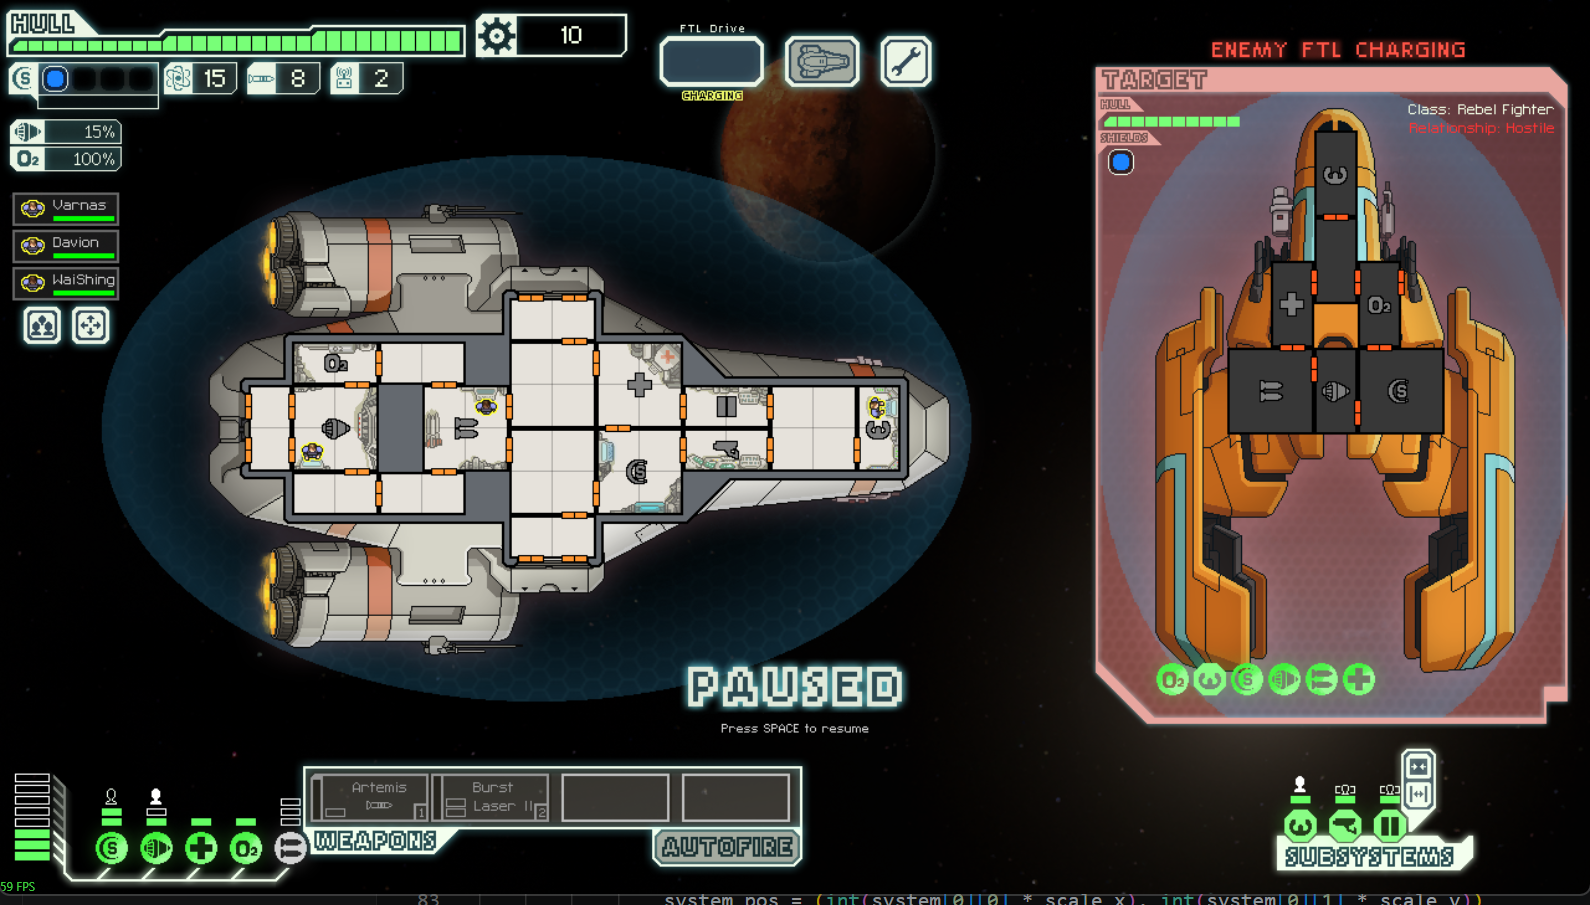
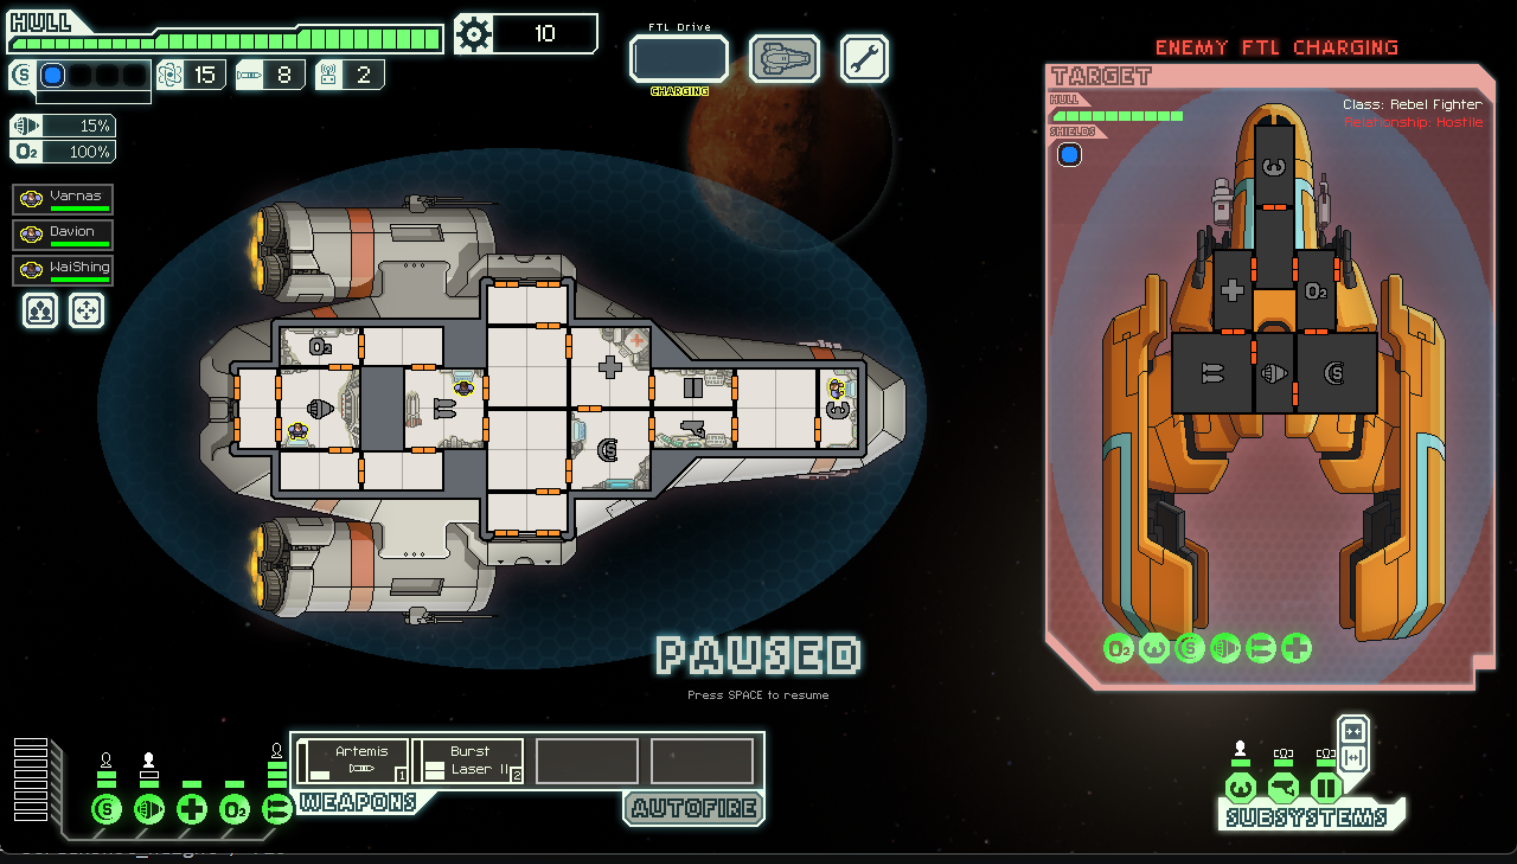
Refactor combat handling and enhance interface integration
- Updated CombatHandler to utilize KeyboardInterface and MouseInterface for input handling.
- Introduced full_scan method in EnemyShip for comprehensive state detection.
- Modified PlayerShip methods to improve room detection and health assessment.
- Added new Interface, KeyboardInterface, and MouseInterface classes for better interaction with the game window.
- Implemented main FTLBot execution flow in FTLBot.py.

diff --git a/src/Controller/CombatHandler.py b/src/Controller/CombatHandler.py
@@ -1,19 +1,22 @@
 
-
 if __name__ == "__main__":
     #change working directory to src
     import os
     os.chdir(os.path.dirname(os.path.abspath(__file__)))
     
+from Interface.KeyboardInterface import KeyboardInterface
+from Interface.MouseInterface import MouseInterface
 from Model.PlayerShip import PlayerShip
 from Model.EnemyShip import EnemyShip
 import time
 import random
 
 class CombatHandler:
-    def __init__(self, player_ship, hostile_ship):
+    def __init__(self, player_ship, hostile_ship, keyboard_interface=None, mouse_interface=None):
         self.player_ship = player_ship
         self.hostile_ship = hostile_ship
+        self.keyboard_interface = keyboard_interface or KeyboardInterface()
+        self.mouse_interface = mouse_interface or MouseInterface()
         self.is_paused = True # Assume combat starts paused
         self.player_ship.full_scan(self.player_ship.screenshot())
         self.hostile_ship.full_scan(self.hostile_ship.screenshot())    
@@ -25,9 +28,8 @@ class CombatHandler:
             self.is_paused = True
             self.last_pause = time.time()
             self.paused_duration = 0
-
-            # TODO: Send pause command to the interface
-        
+            self.keyboard_interface.pause_input()
+            
     # After game is unpaused, cooldown timers need to be adjusted as time does not pass when paused    
     def _set_cooldowns(self):
         for weapon in self.player_ship.weapons:
@@ -40,8 +42,7 @@ class CombatHandler:
             self.paused_duration += time.time() - self.last_pause
             self.last_pause = 0
             self._set_cooldowns()
-
-            #TODO: Send unpause command to the interface
+            self.keyboard_interface.pause_input()
     
 
     def check_player_status(self, screenshot):
@@ -66,19 +67,27 @@ class CombatHandler:
         return available_weapons
 
 
+    def fire_weapon(self, weapon, target):
+        print(f"Firing {weapon.name} at {target}")
+        weapon.fired()
+        self.mouse_interface.click_at_position(weapon.pos[0], weapon.pos[1])
+        self.mouse_interface.click_at_position(target.pos[0], target.pos[1])
+
+
     # Current version will not utilise any tactics, and will instead fire all available weapons
     def main_combat_loop(self):
         while True:
-            self.pause()
+            # Detect keypress of escape key to break loop and end combat
+            if self.keyboard_interface.is_kill_switch_pressed():
+                self.keyboard_interface.kill_switch()
             screenshot = self.player_ship.screenshot()
             weapons_to_fire = self.get_available_weapons()
-            for weapon in weapons_to_fire:
-                target = random.choice(self.hostile_ship.rooms)
-                print(f"Firing {weapon.name} at {target.name}")
-                weapon.fired()
-                # TODO: Send fire command to the interface
-            self.unpause()
-            time.sleep(0.1)
+            if len(weapons_to_fire) > 0:
+                self.pause()
+                for weapon in weapons_to_fire:
+                    self.fire_weapon(weapon, random.choice(self.hostile_ship.rooms))
+                self.unpause()
+            time.sleep(0.5)
 
 
     

diff --git a/src/Interface/MouseInterface.py b/src/Interface/MouseInterface.py
@@ -1,0 +1,60 @@
+import pyautogui
+import platform
+import time
+if platform.system() == "Windows":
+    import ctypes
+    from ctypes import wintypes
+try:
+    from .Interface import Interface
+except ImportError:
+    from Interface import Interface
+
+class MouseInterface(Interface):
+
+    def __init__(self, ftl_window=None):
+        super().__init__(ftl_window)
+        self.refresh_bounds()
+    
+    def refresh_bounds(self):
+        self.screen_width, self.screen_height = self.ftl_window.width, self.ftl_window.height  
+        self.left_bound = self.ftl_window.left
+        self.top_bound = self.ftl_window.top
+        self.right_bound = self.ftl_window.right
+        self.bottom_bound = self.ftl_window.bottom
+
+    def _get_client_origin(self):
+        # Room/system coordinates are in client-area space, so clicks must be translated
+        # from client origin rather than full window origin.
+        if platform.system() != "Windows":
+            return self.left_bound, self.top_bound
+
+        hwnd = getattr(self.ftl_window, "_hWnd", None)
+        try:
+            hwnd = int(hwnd)
+        except (TypeError, ValueError):
+            hwnd = None
+
+        if not hwnd or hwnd <= 0:
+            return self.left_bound, self.top_bound
+
+        user32 = ctypes.windll.user32
+        if not user32.IsWindow(hwnd):
+            return self.left_bound, self.top_bound
+
+        point = wintypes.POINT(0, 0)
+        if not user32.ClientToScreen(hwnd, ctypes.byref(point)):
+            return self.left_bound, self.top_bound
+        return point.x, point.y
+
+
+    def click_at_position(self, x, y):
+        self._activate_ftl_window()
+        self.refresh_bounds()
+        client_left, client_top = self._get_client_origin()
+        click_pos = (x + client_left, y + client_top)
+        if self.left_bound <= click_pos[0] <= self.right_bound and self.top_bound <= click_pos[1] <= self.bottom_bound:
+            pyautogui.moveTo(click_pos)
+            time.sleep(0.1)  # Small delay to ensure the mouse has moved before clicking
+            pyautogui.click(*click_pos)
+        else:
+            raise ValueError(f"Click position ({x}, {y}) is outside the bounds of the FTL window.")

diff --git a/src/Model/PlayerShip.py b/src/Model/PlayerShip.py
@@ -52,7 +52,8 @@ class PlayerShip(Ship):
                     return np.zeros((health_bar_image.height, health_bar_image.width), dtype=np.uint8)
         return mask
 
-    def _point_in_room(self, point, polygon):
+    def _point_in_room(self, point, room):
+        polygon = room.bounds
         x1, y1 = point
         x2, y2, xoffset, yoffset = polygon
 
@@ -64,10 +65,6 @@ class PlayerShip(Ship):
     def detect_rooms(self, screenshot, DEBUG=False):
         rooms = super().detect_rooms(screenshot, DEBUG)
         print("Rooms:", rooms)
-        # Scale system anchors from base 1280x720 using the actual screenshot size.
-        screenshot_width, screenshot_height = screenshot.size
-        scale_x = screenshot_width / 1280
-        scale_y = screenshot_height / 720
         system_names = [
             [(380, 330), "Weapons", (235, 650)],
             [(270, 330), "Engines", (120, 650)],
@@ -80,8 +77,8 @@ class PlayerShip(Ship):
         ]
         for room in rooms:
             for system in system_names:
-                system_pos = (int(system[0][0] * scale_x), int(system[0][1] * scale_y))
-                system_uipos = (int(system[2][0] * scale_x), int(system[2][1] * scale_y)) if len(system) == 3 else None
+                system_pos = (int(system[0][0] * self.scale_x), int(system[0][1] * self.scale_y))
+                system_uipos = (int(system[2][0] * self.scale_x), int(system[2][1] * self.scale_y)) if len(system) == 3 else None
                 if self._point_in_room(system_pos, room):
                     print(f"System {system[1]} is in room {room}")
                     if len(system) == 3:
@@ -107,8 +104,8 @@ class PlayerShip(Ship):
     def detect_weapons(self, screenshot, DEBUG=False):
         # For this version all weapons will be hardcoded
         weapons = [
-            Weapon("Artemis Missile", (300, 650), 2, 11, 1, 5),
-            Weapon("Burst Laser Mk II", (400, 650), 1, 12, 3)
+            Weapon("Artemis Missile", (int(300 * self.scale_x), int(650 * self.scale_y)), 2, 11, 1, 5),
+            Weapon("Burst Laser Mk II", (int(400 * self.scale_x), int(650 * self.scale_y)), 1, 12, 3)
         ]
         self.weapons = weapons
         return weapons

diff --git a/Test/Model/PlayerShip_test.py b/Test/Model/PlayerShip_test.py
@@ -32,7 +32,7 @@ class TestPlayerShip(unittest.TestCase):
         # Replace screenshot with a preset image TestImage1.jpg that has a known health bar state
         test_image = Image.open('Test/Model/TestImage1.jpg')
         
-        health = self.player_ship.detect_health(test_image, DEBUG=True)
+        health = self.player_ship.detect_health(test_image  )
         # Assuming TestImage1.jpg has 25 hit points, we can assert that the detected health is correct
         self.assertEqual(health, 25)
         self.assertEqual(self.player_ship.health, 25)
@@ -86,13 +86,13 @@ class TestPlayerShip(unittest.TestCase):
         rooms = self.player_ship.detect_rooms(test_image)
 
         self.assertEqual(len(rooms), 1)
-        x, y, w, h = rooms[0]
+        x, y, w, h = rooms[0].bounds
         self.assertTrue(x <= 20 and y <= 20)
         self.assertTrue(w >= 155 and h >= 155)
 
     def test_detect_rooms_detects_correct_amount_of_rooms(self):
         test_image = Image.open('Test/Model/TestYellowBar.png')
-        rooms = self.player_ship.detect_rooms(test_image, DEBUG=True)
+        rooms = self.player_ship.detect_rooms(test_image)
         # Assuming TestYellowBar.png has 19 rooms, we can assert that the detected rooms are correct
         self.assertEqual(len(rooms), 19)
 

diff --git a/src/Interface/KeyboardInterface.py b/src/Interface/KeyboardInterface.py
@@ -1,0 +1,43 @@
+#import a library that can mimic keyboard input
+import ctypes
+import pyautogui
+
+try:
+    from .Interface import Interface
+except ImportError:
+    from Interface import Interface
+
+
+class KeyboardInterface(Interface):
+    
+    
+    # Immediately exit the program when called, used for emergency stopping of the bot if something goes wrong.
+    def kill_switch(self):
+        raise SystemExit("Kill switch activated")
+    
+    def is_kill_switch_pressed(self):
+        # On Windows, query asynchronous key state to detect if ESC is held.
+        try:
+            VK_ESCAPE = 0x1B
+            return bool(ctypes.windll.user32.GetAsyncKeyState(VK_ESCAPE) & 0x8000)
+        except Exception:
+            return False
+
+    def press(self, key):
+        self._activate_ftl_window()
+        pyautogui.press(key)
+
+
+
+    def press_key(self, key):
+        self.press(key)
+    
+    def hold_key(self, key, duration):
+        self._activate_ftl_window()
+        pyautogui.keyDown(key)
+        pyautogui.sleep(duration)
+        pyautogui.keyUp(key)
+
+    def pause_input(self):
+        pyautogui.press("space")
+

diff --git a/src/Model/Ship.py b/src/Model/Ship.py
@@ -9,6 +9,14 @@ except ImportError:
     from Masker import Masker
 
 
+class Room():
+    def __init__(self, bounds):
+        self.bounds = bounds
+        x, y, width, height = bounds
+        # Use rounded half-width/height so odd-sized rooms center more accurately.
+        self.pos = (int(round(x + width / 2)), int(round(y + height / 2)))
+        
+
 
 class Ship(Masker): 
 
@@ -107,7 +115,7 @@ class Ship(Masker):
             x += self.ROOM_REGION[0]
             y += self.ROOM_REGION[1]
             if w > 20 and h > 20:  # These thresholds may need to be adjusted based on the actual sizes of rooms in the game
-                rooms.append((x, y, w, h))
+                rooms.append(Room((x, y, w, h)))
                 if DEBUG:
                     cv2.rectangle(debug_image, (x, y), (x + w, y + h), (0, 255, 0), 2)
         if DEBUG:

diff --git a/src/Interface/Interface.py b/src/Interface/Interface.py
@@ -1,0 +1,19 @@
+import pyautogui
+import pygetwindow as gw
+
+class Interface:
+    def __init__(self, ftl_window=None):
+        if ftl_window is None:
+            self.ftl_window = gw.getWindowsWithTitle("FTL: Faster Than Light")[0]  # Get the FTL window
+        else:
+            self.ftl_window = ftl_window
+               
+               
+    def _activate_ftl_window(self):
+        if self.ftl_window is None:
+            return
+
+        if hasattr(self.ftl_window, "isMinimized") and self.ftl_window.isMinimized:
+            self.ftl_window.restore()
+
+        self.ftl_window.activate()

diff --git a/Test/Model/EnemyShip_test.py b/Test/Model/EnemyShip_test.py
@@ -36,7 +36,7 @@ class TestEnemyShip(unittest.TestCase):
 
     def test_detect_shield(self):
         test_image = Image.open('Test/Model/TestImage2.png')
-        shield = self.enemy_ship.detect_shield(test_image, DEBUG=True)
+        shield = self.enemy_ship.detect_shield(test_image)
         # Assuming TestImage2.png has 3 shield points for the enemy ship, we can assert that the detected shield is correct
         self.assertEqual(shield, 3)
         self.assertEqual(self.enemy_ship.shield, 3)

diff --git a/src/Model/EnemyShip.py b/src/Model/EnemyShip.py
@@ -23,6 +23,11 @@ class EnemyShip(Ship):
         self.SHIELD_BAR_REGION = self.rescale_region(self._shield_bar_base_region)
         self.ROOM_REGION = self.rescale_region(self._room_base_region)
 
+    def full_scan(self, screenshot):
+        self.detect_health(screenshot)
+        self.detect_shield(screenshot)
+        self.detect_rooms(screenshot)
+
 
 
 

diff --git a/src/FTLBot.py b/src/FTLBot.py
@@ -1,0 +1,9 @@
+from Controller.CombatHandler import CombatHandler
+from Model.PlayerShip import PlayerShip
+from Model.EnemyShip import EnemyShip
+
+
+
+instance = CombatHandler(player_ship=PlayerShip(), hostile_ship=EnemyShip())
+
+instance.main_combat_loop()
